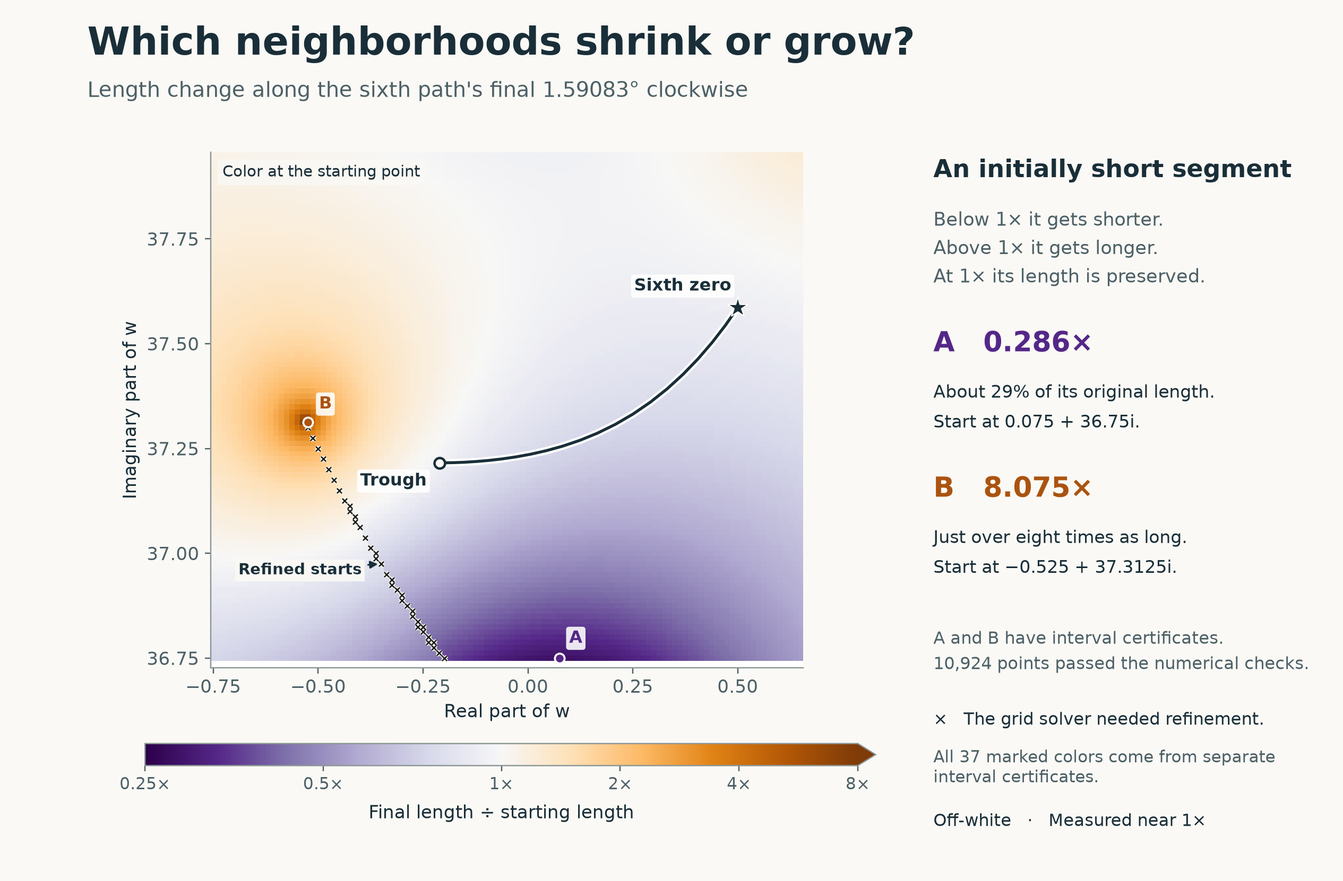
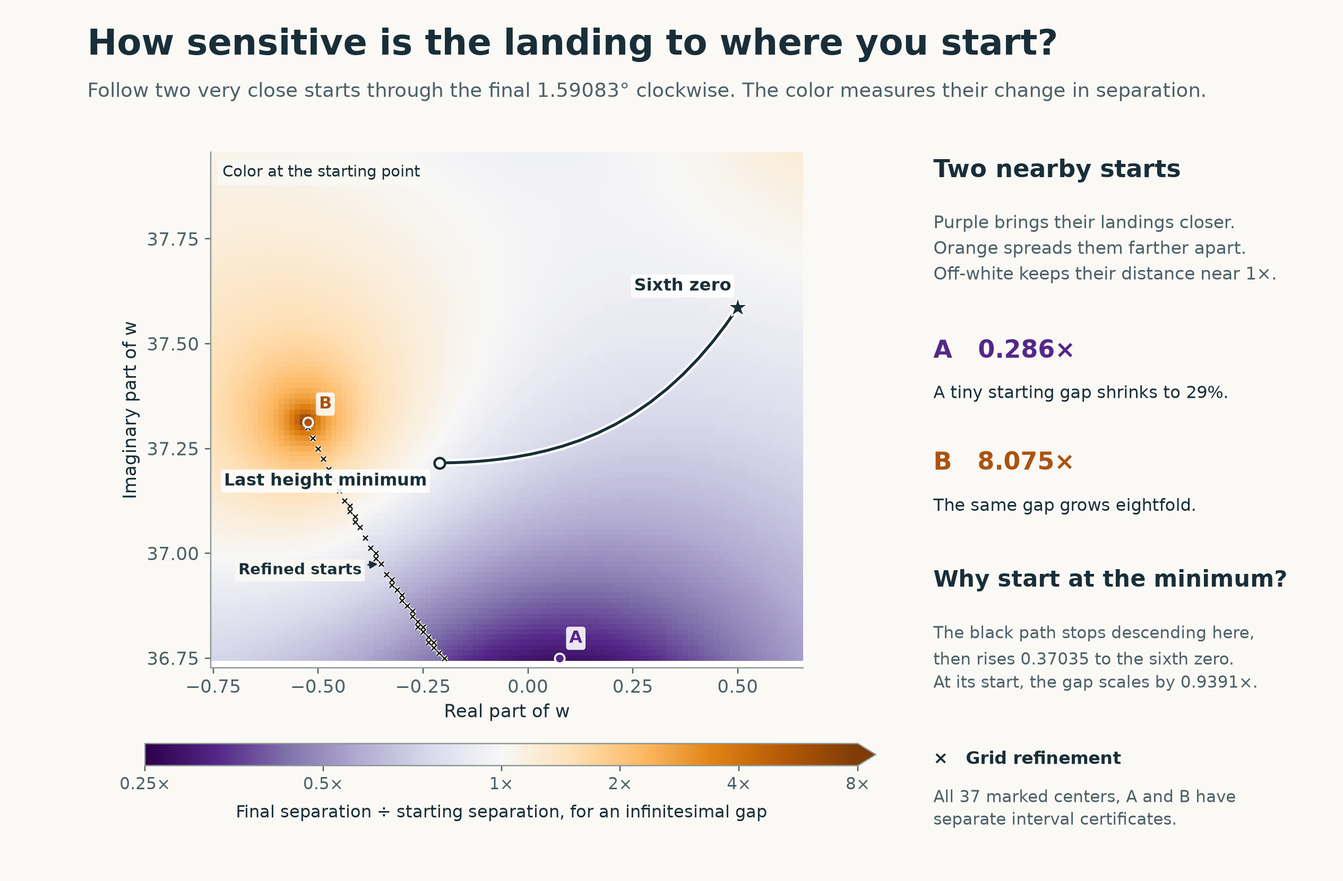
Explain landing sensitivity and name the measured centerline orbit

diff --git a/archive/2026-11-19-dottie-plane-atlas-v001/atlas/plane_wide.py b/archive/2026-11-19-dottie-plane-atlas-v001/atlas/plane_wide.py
@@ -31,17 +31,17 @@ def plot(out,close_data):
     ink="#192e38"; muted="#49616a"; blue="#19657d"; paper="#faf9f5"
     plt.rcParams.update({"font.family":"DejaVu Sans","font.size":11,"axes.labelcolor":ink,
                          "text.color":ink,"xtick.color":muted,"ytick.color":muted,"axes.edgecolor":"#81918f"})
-    fig=plt.figure(figsize=(10.5,9.15),facecolor=paper)
-    fig.text(.067,.946,"The sixth path in a wider complex plane",fontsize=24,fontweight="bold")
-    fig.text(.067,.903,"A new 38,801-point grid. The return-lift angle runs from 13.40917° to 15° clockwise.",
-             fontsize=12.2,color=muted)
-    ax=fig.add_axes([.081,.17,.505,.665])
+    fig=plt.figure(figsize=(12.8,9.4),facecolor=paper)
+    fig.text(.065,.938,"How sensitive is the landing to the starting point?",fontsize=23,fontweight="bold",color=ink)
+    fig.text(.065,.882,"Imagine nudging a starting point. Its color tells you how much that tiny nudge changes where you land.",
+             fontsize=12.3,color=muted)
+    ax=fig.add_axes([.063,.211,.497,.61])
     ax.set_aspect("equal",adjustable="box")
     cmap=plt.get_cmap("PuOr_r").copy();cmap.set_bad("#a5aaa8")
     im=ax.pcolormesh(x,y,np.ma.array(g["log2_length"],mask=~ok),shading="nearest",
                      cmap=cmap,norm=TwoSlopeNorm(vcenter=0,vmin=np.log2(minrat),vmax=np.log2(maxrat)),rasterized=True)
     ax.set_xlim(x[0]-.0125,x[-1]+.0125);ax.set_ylim(y[0]-.0125,y[-1]+.0125)
-    ax.set_xlabel("Starting real part of w");ax.set_ylabel("Starting imaginary part of w")
+    ax.set_xlabel("Starting real part");ax.set_ylabel("Starting height (imaginary part)")
     ax.xaxis.set_major_locator(MultipleLocator(1));ax.yaxis.set_major_locator(MultipleLocator(1))
     # The rings show the finer predecessor data even where that point is
     # between nodes of the new grid. The twelve shared unresolved nodes
@@ -56,22 +56,37 @@ def plot(out,close_data):
     ax.annotate("Trough",xy=(track[0].real,track[0].imag),xytext=(4,-7),
                 textcoords="offset points",ha="left",va="top",fontsize=9.5,fontweight="bold",
                 color=ink,bbox=dict(boxstyle="round,pad=.16",fc=paper,ec="none",alpha=.88),zorder=10)
-    S=.585
+    S=.555
     def txt(y,text,*,size=11,weight="normal",color=muted):
         fig.text(S,y,text,fontsize=size,fontweight=weight,color=color,va="top",linespacing=1.5)
-    txt(.82,"Reading the colors and marks",size=15,weight="bold",color=ink)
-    txt(.755,"Off-white means a measured ratio near 1×.\nAt −1 + 38.65i the ratio is 1.000010×.",size=10.8)
-    txt(.65,"×   Unresolved by the wide grid solver",size=11.5,weight="bold",color=ink)
-    txt(.605,f"{counts[1]} starts missed the required agreement\nbetween the two step sizes.",size=10.8)
-    txt(.50,"○   Individually verified starts",size=11.5,weight="bold",color=blue)
-    txt(.454,f"All {len(old)} blue-ringed starts were later solved\nwith interval arithmetic. Twelve fall exactly\non this wider grid and carry both marks.",size=10.8)
-    txt(.327,"How much do lengths change?",size=13,weight="bold",color=ink)
-    txt(.278,f"{counts[0]:,} accepted numerical readings span\n{minrat:.3f}× to {maxrat:.3f}×. Purple shrinks an initial\nlength. Orange stretches it.",size=10.8)
-    txt(.165,"The black curve follows the marked zero.\nThe star is its arrival at the sixth Riemann zero.",size=9.65)
-    cb=fig.colorbar(im,cax=fig.add_axes([.075,.086,.485,.022]),orientation="horizontal",
+    txt(.823,"Read one colored point",size=15.5,weight="bold",color=ink)
+    txt(.778,"Follow two very close starts through the same turn.\nCompare the gap between them at the beginning and end.",size=10.6)
+    key=fig.add_axes([S,.548,.394,.145])
+    key.set_xlim(0,1);key.set_ylim(0,1)
+    key.axis("off")
+    key.text(.385,.94,"Starting gap",color=muted,fontsize=9,ha="center")
+    key.text(.76,.94,"Landing gap",color=muted,fontsize=9,ha="center")
+    for ratio,level,yrow in ((.5,"Purple",.69),(1,"Off-white",.40),(2,"Orange",.11)):
+        # The example dots use one ruler in both columns. Each represents
+        # a pair of infinitesimally close trajectories, magnified for display.
+        color=im.cmap(im.norm(np.log2(ratio)))
+        key.scatter(.022,yrow,marker="s",c=[color],s=96,edgecolor="#74838a",linewidth=.65)
+        key.text(.064,yrow,f"{level}   {ratio:g}×",va="center",color=ink,fontsize=9.5)
+        for origin,dist in ((.325,.12),(.685,.12*ratio)):
+            key.plot([origin,origin+dist],[yrow,yrow],lw=1.85,color=ink,solid_capstyle="round")
+            key.scatter([origin,origin+dist],[yrow,yrow],s=25,color=ink,zorder=3)
+    txt(.493,"Why start at the trough?",size=15.5,weight="bold",color=ink)
+    txt(.445,"The open circle is the last low point of the black path.\nIts height stops falling at 37.21583 while the point is still\nmoving sideways. From here the path rises to the star,\nthe sixth Riemann zero at height 37.58618.",size=10.6)
+    txt(.313,"At that starting point the factor is 0.939×.",size=11,weight="bold",color=ink)
+    txt(.273,"The marked point travels 0.801 in straight-line distance.\nA tiny gap between neighboring starts shrinks by 6.1%.\nColor measures that gap, regardless of the distance traveled.",size=10.4)
+    cb=fig.colorbar(im,cax=fig.add_axes([.09,.126,.433,.016]),orientation="horizontal",
                     ticks=[-4,-3,-2,-1,0,1,2,3])
     cb.ax.set_xticklabels(["1/16×","1/8×","1/4×","1/2×","1×","2×","4×","8×"])
-    cb.ax.tick_params(labelsize=9);cb.set_label("Final local length ÷ starting length")
+    cb.ax.tick_params(labelsize=8.5);cb.set_label("Landing gap ÷ starting gap, for a tiny nudge",size=10)
+    txt(.155,"×  Wide-grid calculation needed refinement (152 starts).",size=9.2,color=ink)
+    txt(.126,"○  Blue ring: starting point checked separately (37 starts).",size=9.2,color=blue)
+    fig.text(.065,.039,"The angle changes from 13.40917° to 15°. Each start keeps its own value of the symmetric Hurwitz sum. The black path keeps value zero.",
+             fontsize=9,color=muted)
     fig.savefig(out/"plane_wide.png",dpi=220,facecolor=paper)
     plt.close(fig)
 

diff --git a/archive/2026-11-19-dottie-plane-atlas-v001/atlas/trace_order.py b/archive/2026-11-19-dottie-plane-atlas-v001/atlas/trace_order.py
@@ -1,0 +1,101 @@
+"""Draw the two reciprocal-root sums for the period-640 centerline orbit."""
+import argparse
+import hashlib
+import json
+from math import isclose, pi, sin, sqrt
+from pathlib import Path
+
+import matplotlib
+matplotlib.use("Agg")
+import matplotlib.pyplot as plt
+import numpy as np
+
+
+SOURCE=Path("archive/2026-11-19-oriented-return-v001/data/quarter_probe.json")
[1 lines of base64/hex data omitted]
+HERE=Path(__file__).resolve().parent
+BLUE,ORANGE,INK="#005785","#ad5000","#1d2930"
+
+
+def number(row,key):
+    """The original directed balls stay in the source. Plot their printed centers."""
+    return float(row[key].lstrip("[").split()[0])
+
+
+def draw(source,output):
+    blob=source.read_bytes()
+    if hashlib.sha256(blob).hexdigest()!=DIGEST:
+        raise ValueError("The signed trace record differs from the archived quarter_probe.json.")
+    record=json.loads(blob)
+    before,after=(record[name] for name in ("original","clockwise"))
+    b,a=(number(row,"angle_deg") for row in (before,after))
+    assert record["ordered_period"]==640 and record["scalar_period"]==320
+    assert a < -90 < b and isclose(a,b-30,abs_tol=1e-12)
+    assert number(after,"y")!=number(before,"y")
+    assert record["original_contained_in_restored_bounds"]
+    left,right=a-2.2,b+4.1
+    theta=np.linspace(left,right,1200)
+    fig,ax=plt.subplots(figsize=(10,6))
+    fig.subplots_adjust(left=.105,right=.958,top=.70,bottom=.19)
+    fig.text(.105,.94,"The two spectral readings exchange order at −90°",fontsize=21,
+             color=INK,fontweight="bold")
+    fig.text(.105,.882,"The angle measures how a small displacement turns after one full lap of the centerline orbit.",
+             fontsize=11.5,color="#4b606a")
+    for key,sign,color,style,marker,lab in (
+            ("trace_plus",1,BLUE,"-","o",r"$M_+$ at $\theta+30^\circ$"),
+            ("trace_minus",-1,ORANGE,(0,(5,2.6)),"s",r"$M_-$ at $\theta-30^\circ$")):
+        ax.plot(theta,2/(1-np.sin(np.deg2rad(theta+sign*30))),label=lab,
+                c=color,ls=style,lw=2)
+        for row,t in ((before,b),(after,a)):
+            y=number(row,key)
+            assert isclose(y,2/(1-sin((t+sign*30)*pi/180)),rel_tol=1e-13)
+            ax.scatter(t,y,s=55,marker=marker,facecolor=color,edgecolor="white",zorder=5)
+            offset=(6,10 if sign==1 else -11) if t==b else (8,8 if sign==1 else -8)
+            ax.annotate(f"{y:.4f}",xy=(t,y),xytext=offset,textcoords="offset points",
+                        color=color,fontsize=10.5,fontweight="bold",va="center",
+                        bbox=dict(facecolor="white",edgecolor="none",alpha=.9,pad=.65))
+    for x,label,alignment in ((a,"Same period-640 branch after the turn","left"),
+                              (b,"Centerline period-640 orbit before the turn","right")):
+        ax.axvline(x,color="#a4afb4",lw=.95,ls=(0,(2,3)),zorder=0)
+        ax.text(x,1.025,label,transform=ax.get_xaxis_transform(),ha=alignment,
+                va="bottom",fontweight="bold",color=INK,fontsize=10)
+    arrow_y=1.303
+    ax.annotate("",xy=(a+.9,arrow_y),xytext=(b-.5,arrow_y),
+                arrowprops=dict(arrowstyle="->",color=INK,lw=1))
+    ax.text((a+b)/2,arrow_y,"30° clockwise",ha="center",va="center",fontsize=10,
+            bbox=dict(facecolor="white",edgecolor="none",pad=2))
+    pivot=8-4*sqrt(3)
+    ax.scatter(-90,pivot,marker="D",facecolor="white",edgecolor=INK,lw=1.2,s=41,zorder=6)
+    ax.annotate(r"$M_+=M_-=8-4\sqrt{3}$",xy=(-90,pivot),xytext=(-97,1.179),
+                ha="center",fontsize=11,arrowprops=dict(arrowstyle="-",color=INK,lw=.85,shrinkB=5))
+    ax.set(xlim=(left,right),ylim=(.982,1.32),ylabel="First reciprocal-root sum",
+           xlabel=r"Return angle $\theta$ (degrees)")
+    ax.set_xticks([a,-110,-100,-90,b],labels=[f"−{abs(a):.2f}","−110","−100","−90",f"−{abs(b):.2f}"])
+    ax.set_yticks([1,1.05,1.10,1.15,1.20,1.25,1.30])
+    ax.grid(axis="y",color="#e1e6e8",lw=.75)
+    ax.spines[["right","top"]].set_visible(False)
+    ax.tick_params(colors=INK,labelsize=10,length=3)
+    ax.legend(loc="upper left",bbox_to_anchor=(.101,.855),bbox_transform=fig.transFigure,
+              ncol=2,frameon=False,borderaxespad=0,handlelength=2.5,columnspacing=2.5)
+    fig.text(.105,.052,
+             f"Centerline parameter y changes from {number(before,'y'):.15f} to {number(after,'y'):.15f}.",
+             color="#4b606a",fontsize=10.2)
+    output.parent.mkdir(parents=True,exist_ok=True)
+    fig.savefig(output,dpi=240,facecolor="white",
+                metadata={"Title":"Centerline period-640 orbit before and after a 30 degree clockwise turn"})
+    plt.close(fig)
+
+
+if __name__=="__main__":
+    if not __debug__: raise RuntimeError("Enable assertions")
+    cli=argparse.ArgumentParser(description=__doc__)
+    cli.add_argument("--repo",type=Path,help="Path to The Super Zeta Function checkout.")
+    cli.add_argument("--data",type=Path,help="The archived quarter_probe.json.")
+    cli.add_argument("--output",type=Path,default=HERE/"trace_order.png")
+    args=cli.parse_args()
+    source=args.data
+    if source is None:
+        repo=args.repo or next((p for p in HERE.parents if (p/SOURCE).is_file()),None)
+        if repo is None: cli.error("Supply --repo or --data.")
+        source=repo/SOURCE
+    draw(source,args.output)

diff --git a/archive/2026-11-19-dottie-plane-atlas-v001/atlas/plane_map.py b/archive/2026-11-19-dottie-plane-atlas-v001/atlas/plane_map.py
@@ -270,13 +270,13 @@ def plot(out,staircase=None):
         ax.plot(track[0].real,track[0].imag,"o",ms=6.5,mfc=paper,mec=ink,mew=1.5,zorder=8)
         ax.plot(track[-1].real,track[-1].imag,"*",ms=13,mfc=ink,mec="white",mew=.7,zorder=8)
         if labels:
-            add_label(ax,track[0],"Trough",(-8,-6))
+            add_label(ax,track[0],"Last height minimum",(-8,-6))
             add_label(ax,track[-1],"Sixth zero",(-4,8))
 
     # Original complete cell extents, including all four outer half-cells.
     fig=plt.figure(figsize=(11.5,7.55),**fig_options)
-    fig.text(.065,.938,"Which neighborhoods shrink or grow?",fontsize=24,fontweight="bold")
-    fig.text(.065,.89,"Length change along the sixth path's final 1.59083° clockwise",fontsize=13,color=secondary)
+    fig.text(.065,.938,"How sensitive is the landing to where you start?",fontsize=22,fontweight="bold")
+    fig.text(.065,.89,"Follow two very close starts through the final 1.59083° clockwise. The color measures their change in separation.",fontsize=12,color=secondary)
     ax=fig.add_axes([.085,.242,.585,.585])
     axes(ax)
     ax.set_ylabel("Imaginary part of w")
@@ -301,23 +301,23 @@ def plot(out,staircase=None):
                 bbox=dict(facecolor=paper,edgecolor="none",alpha=.92,pad=2),
                 fontsize=9.5,fontweight="bold",zorder=12)
     sidebar=.695
-    fig.text(sidebar,.82,"An initially short segment",fontsize=15,fontweight="bold",va="top")
-    fig.text(sidebar,.766,"Below 1× it gets shorter.\nAbove 1× it gets longer.\nAt 1× its length is preserved.",
-             fontsize=11.3,linespacing=1.55,color=secondary,va="top")
-    fig.text(sidebar,.625,"A   0.286×",fontsize=17,fontweight="bold",color=A,va="top")
-    fig.text(sidebar,.570,"About 29% of its original length.\nStart at 0.075 + 36.75i.",fontsize=10.8,linespacing=1.6,va="top")
-    fig.text(sidebar,.460,"B   8.075×",fontsize=17,fontweight="bold",color=B,va="top")
-    fig.text(sidebar,.405,"Just over eight times as long.\nStart at −0.525 + 37.3125i.",fontsize=10.8,linespacing=1.6,va="top")
-    fig.text(sidebar,.292,"A and B have interval certificates.\n10,924 points passed the numerical checks.",
-             fontsize=10.5,linespacing=1.6,color=secondary,va="top")
-    fig.text(sidebar,.192,"×   The grid solver needed refinement.",fontsize=10.4,color=ink,va="top")
-    fig.text(sidebar,.151,f"All {unresolved} marked colors come from separate\ninterval certificates.",fontsize=10.1,color=secondary,va="top")
-    fig.text(sidebar,.077,"Off-white   ·   Measured near 1×",fontsize=10.4,color=ink,va="top")
+    fig.text(sidebar,.82,"Two nearby starts",fontsize=15,fontweight="bold",va="top")
+    fig.text(sidebar,.761,"Purple brings their landings closer.\nOrange spreads them farther apart.\nOff-white keeps their distance near 1×.",
+             fontsize=10.7,linespacing=1.48,color=secondary,va="top")
+    fig.text(sidebar,.615,"A   0.286×",fontsize=15,fontweight="bold",color=A,va="top")
+    fig.text(sidebar,.563,"A tiny starting gap shrinks to 29%.",fontsize=10.6,va="top")
+    fig.text(sidebar,.488,"B   8.075×",fontsize=15,fontweight="bold",color=B,va="top")
+    fig.text(sidebar,.435,"The same gap grows eightfold.",fontsize=10.6,va="top")
+    fig.text(sidebar,.354,"Why start at the minimum?",fontsize=14,fontweight="bold",va="top")
+    fig.text(sidebar,.295,"The black path stops descending here,\nthen rises 0.37035 to the sixth zero.\nAt its start, the gap scales by 0.9391×.",
+             fontsize=10.3,linespacing=1.48,color=secondary,va="top")
+    fig.text(sidebar,.148,"×   Grid refinement",fontsize=10.8,fontweight="bold",va="top")
+    fig.text(sidebar,.109,f"All {unresolved} marked centers, A and B have\nseparate interval certificates.",fontsize=10.25,linespacing=1.4,color=secondary,va="top")
     cbax=fig.add_axes([.108,.131,.544,.025])
     cb=fig.colorbar(im,cax=cbax,orientation="horizontal",ticks=[-2,-1,0,1,2,3],extend="max",extendfrac=.025)
     cb.ax.set_xticklabels(["0.25×","0.5×","1×","2×","4×","8×"])
     cb.ax.tick_params(labelsize=10)
-    cb.set_label("Final length ÷ starting length",labelpad=7,fontsize=11)
+    cb.set_label("Final separation ÷ starting separation, for an infinitesimal gap",labelpad=7,fontsize=10.5)
     fig.savefig(out/"plane_strain.png",dpi=220)
     plt.close(fig)
 

diff --git a/tools/replay_plane_atlas.py b/tools/replay_plane_atlas.py
@@ -1,4 +1,4 @@
-"""Recompute the two maps and their certified witnesses in a fresh directory."""
+"""Recompute the maps and interval proofs for the marked starting points and inverse branches."""
 import argparse
 from fractions import Fraction
 from hashlib import sha256
@@ -71,9 +71,12 @@ def compare_map(out, stem, expected_count):
 
 def replay(out):
     check_reference()
+    record = ARCHIVE / "2026-11-19-oriented-return-v001" / "data" / "quarter_probe.json"
[1 lines of base64/hex data omitted]
+    run(ATLAS / "trace_order.py", out, "--data", record, "--output", out / "trace_order.png")
     run(ATLAS / "plane_map.py", out, "--output", out)
     run(ATLAS / "plane_wide.py", out, "--output", out)
-    for name in ("plane_strain.png", "plane_grid.png", "plane_wide.png"):
+    for name in ("plane_strain.png", "plane_grid.png", "plane_wide.png", "trace_order.png"):
         with Image.open(out / name) as regenerated, Image.open(ATLAS / name) as saved:
             assert regenerated.size == saved.size and min(regenerated.size) >= 1440
             regenerated.verify()
@@ -100,6 +103,12 @@ def replay(out):
     assert {(p["row"], p["column"]) for p in incidence["pixel_checks"]} == rejected
     assert all(p["arc"] == 1 and p["source_pixel_contains_level_preimage"] for p in incidence["pixel_checks"])
     # Fix the archived rational shifts for the sheet and collision comparison.
+    archived_cases = read(ATLAS / "gray_collision.json")["illustrated_pixels"]
+    archived_inputs = read(ATLAS / "gray_locus.json")["pixel_checks"]
+    for inp, case in zip(archived_inputs, archived_cases, strict=True):
+        assert (inp["row"], inp["column"]) == (case["row"], case["col"])
+        h = (Fraction(inp["shift"]) - Fraction(1, 6)) * 180
+        assert arb(case["collision_h"]).contains(arb(h.numerator) / h.denominator)
     run(ATLAS / "gray_collision.py", out, "--locus", ATLAS / "gray_locus.json",
         "--out", out / "gray_collision.json")
     collision = read(out / "gray_collision.json")

diff --git a/README.md b/README.md
@@ -12,7 +12,7 @@ I study the ordered return of the reciprocal exponentials $P'=e^{LQ}$ and $Q'=e^
 - I recover $\zeta(2s)$ by comparing the quartet determinant with the cosine determinant.
 - At a Dottie-selected height and its first two integer multiples above it, I strengthen the 7/8ths conclusion to the critical line within three explicit intervals.
 - I recover the Stirling correction for each positive integer from the balanced-sign factor in my quartet normalization.
-- I certify finite cycles in the Dottie spire and recover the period-640 witness from two labeled traces on a calibrated branch.
+- I certify finite cycles in the Dottie spire. For one period-640 cycle, two labeled spectral traces recover its centerline parameter, and iteration from the cap recovers the orbit.
 - I approximate $\pi$ from a genus-one quartic that fails the Hasse principle.
 
 ## Introduction
@@ -90,7 +90,7 @@ The pair $x^{x-a},x^{x+a}$ is a way to start thinking about two exponents at onc
 F_L(P,Q)=\bigl(e^{LQ},e^{-LP}\bigr).
 ```
 
-With center $m=(Q-P)/2$ and half-difference $a=(Q+P)/2$, the updated pair is $(x^{m+a},x^{m-a})$. I keep the branch witnesses $U=LQ$ and $V=-LP$, the actual exponents fed to the two maps. For $L\ne0$ they give back $Q=U/L$ and $P=-V/L$. My papers use $M$ for the second phase $Q$. [*Reciprocal Tetration*, §5, “Branch-sensitive complex fixed data”](archive/2026-11-18-lean-foundations-v001/papers/foundations/main.tex#L359-L402) · [Ordered return in Lean](lean/SuperZeta/Reciprocal.lean)
+With center $m=(Q-P)/2$ and half-difference $a=(Q+P)/2$, the updated pair is $(x^{m+a},x^{m-a})$. I keep the exponents in their original order, $U=LQ$ for the positive stage and $V=-LP$ for the negative stage. For $L\ne0$ they give back $Q=U/L$ and $P=-V/L$. My papers use $M$ for the second phase $Q$. [*Reciprocal Tetration*, §5, “Branch-sensitive complex fixed data”](archive/2026-11-18-lean-foundations-v001/papers/foundations/main.tex#L359-L402) · [Ordered return in Lean](lean/SuperZeta/Reciprocal.lean)
 
 ### The complex two-base family
 
@@ -118,7 +118,7 @@ The Layer 4 survey searches paired periods up to 256. Gray marks unresolved pixe
 
 Baker and Rippon give the centerline return and convergence boundary. My spire analysis starts from that boundary and follows the cap into nearby cycles. The exact Dottie normalization gives separate return equations for the two parities, and the trapping certificates apply those periods to the original map. Under the cap and branch matching hypotheses in §9, the parameters of period $p$ on a rail approach the tip on the scale $p^{-2}$. I can follow the same marked period-640 cycle and its 25/295 itinerary across a finite interval. Matching its phase coordinates and logarithmic branches all the way to a specific limiting horn remains open. Section 10 estimates finite multiplier minima through paired period $4800$. [*Dottie Parabolic Fold*, §§9–10, rail law and finite data](archive/2026-11-18-lean-foundations-v001/papers/dottie-spire/main.tex#L605-L715) · [The finite orbit and the remaining horn matching](archive/2026-11-18-lean-foundations-v001/papers/dottie-spire/main.tex#L739-L750) · [Godin and Rousseau, antiholomorphic parabolic germs](https://doi.org/10.1017/etds.2021.98)
 
-For the zeta experiment I checked two reflected points $L_\pm=\pm\eta+iy$ and their midpoint $L_0=iy$, using $\eta=4.749479070945369\times10^{-8}$ and $y=0.509892982511772$. The original cap is attracted to a cycle of primitive period 320 under the two-step return at each point. These finite orbits give me the marked laps and the parameter values used in the height rule below. [Preprint §8, off-axis witnesses](archive/2026-11-18-lean-foundations-v001/papers/dottie-spire/main.tex#L580-L604) · [Later three-point certificate, 384-bit arithmetic](archive/2026-11-18-lean-foundations-v001/checks/dottie_slice.py) · [Johansson, Arb ball arithmetic](https://arxiv.org/abs/1611.02831)
+For the zeta experiment I checked the two reflected flank parameters $L_\pm=\pm\eta+iy$ and their midpoint $L_0=iy$, using $\eta=4.749479070945369\times10^{-8}$ and $y=0.509892982511772$. The original cap is attracted to a cycle of primitive period 320 under the two-step return at all three parameters. These finite orbits give me the marked laps and the parameter values used in the height rule below. [Preprint §8, period-640 dynamics off the centerline](archive/2026-11-18-lean-foundations-v001/papers/dottie-spire/main.tex#L580-L604) · [Later three-point certificate, 384-bit arithmetic](archive/2026-11-18-lean-foundations-v001/checks/dottie_slice.py) · [Johansson, Arb ball arithmetic](https://arxiv.org/abs/1611.02831)
 
 <a name="the-spectral-zeta-and-the-critical-line"></a>
 
@@ -130,7 +130,7 @@ For the zeta experiment I checked two reflected points $L_\pm=\pm\eta+iy$ and th
 
 ### 3.1 Compose the two marked stages
 
-At a fixed pair, $P=e^U$ and $Q=e^V$, where $U=LQ$ and $V=-LP$ are the branch witnesses from my construction. A small change at $P$ passes first through $P\mapsto Q$ with derivative $-LQ$, then through $Q\mapsto P$ with derivative $LP$. By the chain rule the derivative of the whole return, called its **multiplier**, is
+At a fixed pair, the ordered exponents $U=LQ$ and $V=-LP$ give $P=e^U$ and $Q=e^V$. A small change at $P$ passes first through $P\mapsto Q$ with derivative $-LQ$, then through $Q\mapsto P$ with derivative $LP$. By the chain rule the derivative of the whole return, called its **multiplier**, is
 
 ```math
 g_L'(P)=(-LQ)(LP)=UV.
@@ -148,7 +148,7 @@ From $U=Le^V$ and $V=-Le^U$ I eliminate $L$ to obtain $Ue^U+Ve^V=0$. On the mult
 U=\sigma\sin u+iu,\qquad V=\sigma\sin u-iu,\qquad L=\sigma i e^{-\sigma\sin u}.
 ```
 
-This recovery is why I can use cosine roots as a spectrum of the original return. Each root gives me both branch witnesses, the values $P=e^U$ and $Q=e^V$, and the complex $L$ that produced them. [Cosine spectrum, §1, eqs. (1)–(5)](archive/2026-11-16-super-zeta-v001/sources/foundation/cosine-spectrum.md#1-exact-recovery-of-every-ordered-phase-and-parameter) · [Phase recovery in Lean](lean/SuperZeta/Quartet.lean)
+This recovery is why I can use cosine roots as a spectrum of the original return. Each root gives me the ordered logarithms $U,V$, the phases $P=e^U$ and $Q=e^V$, and the parameter $L$ that produced them. [Cosine spectrum, §1, eqs. (1)–(5)](archive/2026-11-16-super-zeta-v001/sources/foundation/cosine-spectrum.md#1-exact-recovery-of-every-ordered-phase-and-parameter) · [Phase recovery in Lean](lean/SuperZeta/Quartet.lean)
 
 <a name="3-square-the-roots-and-sum-their-inverse-powers"></a>
 
@@ -226,7 +226,7 @@ With $w=2s$, the prefactor is nonzero in $0<\Re w<1$, so I can recover $\zeta(w)
 
 ### 3.6 Inverting two spectral traces on the period-640 orbit
 
-Here I use the spectrum to read a rotation of the original attracting orbit. Put $L=iy$ and let $p_y$ be the point selected by iterating the scalar lap $G_y=g_{iy}^{320}$ from the cap $1$. The angle $\theta(y)=\arg G_y'(p_y)$ is the turn of a small displacement after one lap of 640 alternating exponential stages. At the centerline witness $y_0=0.509892982511772$ that turn is $-86.2334491153^\circ$. [Period convention and finite witnesses](archive/2026-11-18-lean-foundations-v001/papers/dottie-spire/main.tex#L554-L604) · [Derivative of the full lap](lean/SuperZeta/Oriented/OrderedStages.lean)
+Here I use the spectrum to read a rotation of the original attracting orbit. Put $L=iy$ and let $p_y$ be the point selected by iterating the scalar lap $G_y=g_{iy}^{320}$ from the cap $1$. The angle $\theta(y)=\arg G_y'(p_y)$ is the turn of a small displacement after one lap of 640 alternating exponential stages. At the centerline parameter $L=i y_0$, with $y_0=0.509892982511772$, I measure a turn of $-86.2334491153^\circ$. [Period convention and the cap-selected cycles](archive/2026-11-18-lean-foundations-v001/papers/dottie-spire/main.tex#L554-L604) · [Derivative of the full lap](lean/SuperZeta/Oriented/OrderedStages.lean)
 
 **Proposition (two-trace inverse).** I mark the two exponential stages by opposite phases. For a probe angle $a$, let $M(a)$ be the sum of the reciprocal zeros of its normalized positive-sign squared determinant. For $\cos a\ne0$, the sum converges absolutely and equals $2/(1-\sin a)$. The unshifted squared spectra agree at angles reflected across $-90^\circ$, even with both stage signs retained. I measure the same positive-sign spectrum at two labeled offsets and write
 
@@ -244,7 +244,7 @@ Where both probes are regular, $S_\pm=\sin(\theta\pm\pi/6)$. Subtracting and add
 
 On the sector $-120^\circ<\theta<-60^\circ$, $M_+>M_-$ identifies the side above $-90^\circ$ and $M_+<M_-$ the side below. At the pivot the two readings equal $8-4\sqrt3$. The pair identifies the current side. Reading it before and after a specified turn records which side the orbit came from. [Proof from the complete zero set](lean/SuperZeta/Oriented/SpectralInverse.lean) · [Reflection of the squared determinant](lean/SuperZeta/Oriented/PhaseSymmetry.lean)
 
-![The two trace curves cross at minus 90 degrees. On the original orbit the positive-offset reading is larger. After the clockwise turn the negative-offset reading is larger.](archive/2026-11-19-oriented-return-v001/figures/oriented-traces.png)
+![The two reciprocal-root sums at the centerline period-640 orbit before the turn and on the same branch 30° clockwise.](archive/2026-11-19-dottie-plane-atlas-v001/atlas/trace_order.png)
 
 **Period-640 round trip.** I turned the measured phase clockwise by $30^\circ$, found the corresponding parameter on the same branch, and evaluated both determinants afresh there. The rounded entries below come from directed enclosures. [Interval record](archive/2026-11-19-oriented-return-v001/data/quarter_probe.json)
 
@@ -255,9 +255,9 @@ On the sector $-120^\circ<\theta<-60^\circ$, $M_+>M_-$ identifies the side above
 
 Decoding the second pair and adding back $30^\circ$ gives a parameter interval containing $y_0$ of width below $10^{-29}$. The cap selects the starting point at this parameter. Iterating the ordered map then recovers the same cycle with its actual exponents $U=LQ$ and $V=-LP$ at every step. Each of the 1,280 returned exponent enclosures overlaps its original partner.
 
-Lean proves the determinant product, the inverse formula and the return theorem on a continuous, strictly increasing angle branch with the target in range. The 448-bit interval computation verifies cap capture, primitive period and positive angle derivative on the stated witness interval. Lean separately checks the printed rational return bounds. [Full proof, arithmetic comparison with Liu, and replay](archive/2026-11-19-oriented-return-v001/README.md)
+Lean proves the determinant product, the inverse formula and the return theorem on a continuous, strictly increasing angle branch with the target in range. On the centerline interval $0.50989298230\le y\le0.50989298314$, my 448-bit calculation verifies that the cap is attracted to a cycle of primitive ordered period 640 and that the return angle increases with $y$. Lean separately checks the printed rational return bounds. [Full proof, arithmetic comparison with Liu, and replay](archive/2026-11-19-oriented-return-v001/README.md)
 
-**Arithmetic consequence.** At the *absolute* native angles $-30^\circ$ and $+30^\circ$, the reference spectra give the same function $\pi^{-w}(3^w-1)\zeta(w)$ with $w=2s$. The first dynamical correction is zero at $-30^\circ$ and $8/3$ at $+30^\circ$. Liu’s joint moment estimates give the external zero-free bound for this common reference. The measurements around the period-640 witness use relative offsets from its own angle. [Liu, Theorem 1.1](https://hexagonmath.org/pdf/2611.00421v1#page=2) · [Derivation and phase convention](archive/2026-11-19-oriented-return-v001/README.md#the-arithmetic-reference-at-the-two-absolute-angles)
+**Arithmetic consequence.** At the *absolute* native angles $-30^\circ$ and $+30^\circ$, the reference spectra give the same function $\pi^{-w}(3^w-1)\zeta(w)$ with $w=2s$. The first dynamical correction is zero at $-30^\circ$ and $8/3$ at $+30^\circ$. Liu’s joint moment estimates give the external zero-free bound for this common reference. In my period-640 round trip, I measure the $30^\circ$ turn from the original orbit’s return angle of $-86.2334491153^\circ$. [Liu, Theorem 1.1](https://hexagonmath.org/pdf/2611.00421v1#page=2) · [Derivation and phase convention](archive/2026-11-19-oriented-return-v001/README.md#the-arithmetic-reference-at-the-two-absolute-angles)
 
 <a name="zero-transport"></a>
 
@@ -445,7 +445,7 @@ The numerator comes from the exact product of all the radial factors $R_n/(2\pi 
 
 ## Conclusions
 
-- **Two measurements determine the orientation of the cap-selected return.** The labeled root sums recover both coordinates of the normalized return multiplier. On the certified branch this determines the centerline parameter and the ordered period-640 orbit. [The inverse and the witness](#oriented-period-640-return)
+- **Two measurements determine the orientation of the cap-selected return.** The labeled root sums recover both coordinates of the normalized return multiplier. On the certified branch this determines the centerline parameter and the ordered period-640 orbit. [Recovering the centerline parameter and its cycle](#oriented-period-640-return)
 - **I kept the order of the exponential stages in a ring.** A word records which sign I use at each step. Joining words is multiplication, and finite integer sums of words form the free associative ring on the two signs. The balance, given by the difference between the two sign counts, adds when I join words. The balanced words therefore span its degree-zero subring. The two orders +− and −+ already give different compositions at Dottie. In a scalar count, two of the four two-stage histories balance. With two independent streams, the fraction is $1/4$. At level $n$ that fraction is the factor $B_n^2$ in my normalization. [Periodic sign words in my preprint](archive/2026-11-18-lean-foundations-v001/papers/foundations/main.tex#L404-L445) · [Word ring acting by composition, eqs. (1)–(4)](archive/2026-11-16-super-zeta-v001/research/ordered-signed-histories.md#1-the-operators-retain-every-arrangement)
 - **I made the factorial error an evaluable part of the formula.** The exact integral explains why the quarter survives and bounds what is left at each truncation. I also found the exact adjacent-level ratio $D_{n+1}/D_n=1+1/(4n(n+1))$, which lets me carry the factorial factor into the phase comparison at the Dottie height. Summing the correction across levels contributes a quarter at zero in the zeta function of those levels. Multiplying across levels gives the factorial factor in the Barnes–Dottie constant. [Adjacent-level phase calculation and certificate](archive/2026-11-18-stirling-correction-v001/README.md#effect-on-phase-at-the-dottie-height)
 - **I verified the exact factorial identities in Lean.** The proofs check the combined Stirling error in the quartet formula and the truncation bound at every order. A separate theorem recovers the error on a single factorial from the same integral and proves the resulting equality for every positive integer $n$. [Combined and single-factorial identities](lean/SuperZeta/StirlingCorrection.lean) · [All-order bounds](lean/SuperZeta/StirlingExpansion.lean)

diff --git a/archive/2026-11-19-dottie-plane-atlas-v001/atlas/THESIS.md b/archive/2026-11-19-dottie-plane-atlas-v001/atlas/THESIS.md
@@ -33,7 +33,9 @@ Substitution gives $dw/dL=-b'(L)H_b/H_w$. This extends the measured turn to comp
 
 ![Where the sampled grid goes. Positions in the initial rectangle and all resolved final positions share the same complex axes.](plane_grid.png)
 
-![The wide heatmap labels the trough on the path to the sixth zero. Color measures local length change. Crosses mark results flagged by the wide grid calculation, and blue rings mark individually verified starting points.](plane_wide.png)
+![How sensitive is the landing to the starting point? A pair of dots shows the same tiny starting gap halving in purple, staying the same in off-white, or doubling in orange. The trough is the open circle on the black path to the sixth zero.](plane_wide.png)
+
+I read the color at the **start**. Imagine missing that start by one millionth of a unit in the complex plane. A local factor of $2$ means the landing shifts by about two millionths. This matters if I want to know how precisely a starting position determines its endpoint. The black curve follows one particular start over the final $1.59083^\circ$ of the turn. At the open circle the height has just stopped falling, even though the point is moving sideways. That last height minimum gives me a repeatable place to begin the comparison. From there the path rises by $0.37035$ to the sixth zero, while a tiny starting displacement reaches the endpoint at about $93.91\%$ of its original size.
 
 From the last trough to the sixth landing, the length factor is $0.93909767282928$. At $0.075+36.75i$ it is $0.286128734$. At $-0.525+37.3125i$ it is $8.075195$. The three values have interval enclosures. Thus neighboring points can approach one another or spread apart on the same angular interval. At a regular finite endpoint the transport derivative is nonzero. In particular those finite arrows keep their complex level $c$, including the nonzero levels marked A and B. [Two nonzero-level interval proofs](plane_anchors.json) · [Zero-path length and area](phase_lift.json)
 
@@ -43,7 +45,7 @@ At an intermediate shift $b$, a simple critical point has $H_w(w_c,b)=0$ and $H_
 
 ## How the signs survive the move into a spectral coordinate
 
-At the 45° end of the measured period-640 flank, write $E_j(z)=\exp(a_jz)$ for the ordered scalar stages, beginning with $a_0=-L$ and then $a_1=L$, alternating through all 640. Set $z_{j+1}=E_j(z_j)$ and $c_j=a_jz_{j+1}$. The negative stage has exponent $-LP$ and the positive stage has exponent $LQ$, with $Q$ the intermediate scalar phase. The derivative of the full return is $\mu=\prod_j c_j$. Keeping the exponent *before* applying the exponential gives the following lift. I use the principal logarithms of the two fixed coefficients $+L,-L$.
+At the 45° end of the right-flank segment defined above, I use the cap-selected orbit of ordered period 640. Write $E_j(z)=\exp(a_jz)$ for the ordered scalar stages, beginning with $a_0=-L$ and then $a_1=L$, alternating through all 640. Set $z_{j+1}=E_j(z_j)$ and $c_j=a_jz_{j+1}$. The negative stage has exponent $-LP$ and the positive stage has exponent $LQ$, with $Q$ the intermediate scalar phase. The derivative of the full return is $\mu=\prod_j c_j$. Keeping the exponent *before* applying the exponential gives the following lift. I use the principal logarithms of the two fixed coefficients $+L,-L$.
 
 $$
 \ell_*=\sum_{j=0}^{639}\big(\log a_j+a_jz_j\big),\qquad

diff --git a/lean/README.md b/lean/README.md
@@ -69,7 +69,7 @@ The local strengthening of the seven-eighths theorem uses interval arithmetic fo
 | [Factorial correction](SuperZeta/Barnes.lean) | For $D_n=\pi n[4^{-n}\binom{2n}{n}]^2$, `quarter_bounds` bounds the error at finite $n$ and `quarter_limit` proves $n(1-D_n)\to1/4$ using Wallis’ product. `quartet_barnes_product` gives the finite product using the Gamma recurrence. [QuartetRadius](SuperZeta/QuartetRadius.lean) proves $R_n-2\pi n\to0$ and the quarter limit for $R_nB_n^2/2$. |
 | [Exact Stirling remainder](SuperZeta/StirlingCorrection.lean) | `log_D_factorial` identifies the cancellation of the factorial errors, and `log_C_eq_radial_sub_laplace` gives the exact integral. `factorialRemainder_hasSum` recovers the logarithmic error for one factorial by summing the same integral at successive doublings. `factorial_eq_stirling_mul_exp_dyadic` gives the resulting equality for $n!$ at every positive integer. [The truncation proof](SuperZeta/StirlingExpansion.lean) bounds the combined remainder by the first omitted term at every order and proves the corresponding bound for the sum above a cutoff. |
 | [The deformed zeta near zero](SuperZeta/DeformedZeta.lean) | `continuation_eq_series` restores the subtracted terms in the region of convergence. `residue_zero` gives residue $-\nu/4$ and `spectralZeta_analyticAt_zero` proves regularity of the spectral diagonal, with value $-1/4$. |
-| [Factorial phase](SuperZeta/FactorialPhase.lean) | `phaseFactor_quotient` gives the exact phase of the neighboring power factors. `dottie_factorial_bracket` proves the half-turn comparison from the witness decimals. `dottie_quartet_bracket` proves the full comparison given the [directed radial bounds](../archive/2026-11-18-stirling-correction-v001/phase-bounds.json). |
+| [Factorial phase](SuperZeta/FactorialPhase.lean) | `phaseFactor_quotient` gives the exact phase of the neighboring power factors. `dottie_factorial_bracket` proves the half-turn comparison from the exact decimal coordinates of the two reflected Dottie parameters. `dottie_quartet_bracket` proves the full comparison given the [directed radial bounds](../archive/2026-11-18-stirling-correction-v001/phase-bounds.json). |
 | [The quadratic for π](SuperZeta/Meme.lean) | `coefficient_quartic` and `equal_target_iff` check the quartic and inverse branches. `rootGap_min` proves the exact minimum root separation of one at $N(x)=0$, and `roots_at_zero_numerator` identifies the two roots. [MemePrecision](SuperZeta/MemePrecision.lean) bounds $R(e)-T(\pi)$ between $2.6231439430444\times10^{-20}$ and $2.6231439430445\times10^{-20}$, and $\pi-\widehat\pi$ between $8.682007272724\times10^{-20}$ and $8.682007272726\times10^{-20}$. |
 | [Local points and rational descent](SuperZeta/Hasse.lean) | `quartic_forces_negative_square` sends a hypothetical rational projective point to a nonzero negative-square abscissa on the associated elliptic curve. [HasseCover](SuperZeta/HasseCover.lean) proves that one of four rational inputs gives a point over $\mathbb Q_p$ at each prime $p$. [HasseLocal](SuperZeta/HasseLocal.lean) checks the nine exceptional primes individually. The exclusion of rational points uses the rank and squareclass computation in the [written descent](../archive/2026-11-18-lean-foundations-v001/arithmetic/research/hasse-obstruction.md). |
 

diff --git a/archive/2026-11-19-dottie-plane-atlas-v001/README.md b/archive/2026-11-19-dottie-plane-atlas-v001/README.md
@@ -1,6 +1,6 @@
 # The Dottie clocks and the moving Hurwitz plane
 
-I studied two experiments near the sixth Riemann zero. In the first, I turned the Hurwitz shift and followed the deformation of the surrounding plane. In the second, I held the shift fixed and changed the continuous path by which the Dottie multiplier acts on the value of the function.
+I studied two experiments near the sixth Riemann zero. In the first, I turned the Hurwitz shift and followed the deformation of the surrounding plane. In the second, I fixed the Hurwitz shift at $b=1/4$ and used the multiplier of one 640-stage return on the right flank of the Dottie spire. I compared the path given by its principal logarithm with the path obtained by retaining the exponents of all 640 stages.
 
 | What I hold fixed | What I vary | What the data answer |
 | --- | --- | --- |
@@ -27,7 +27,7 @@ python -B archive/2026-11-19-dottie-plane-atlas-v001/landing/replay.py --geometr
 python -B tools/replay_single_term.py
 ~~~
 
-Both maps use step-size comparisons as numerical acceptance criteria. Their companion scripts provide directed enclosures at the named witnesses. The retrospective study uses the known first ten landings. The next two seeds were selected by consecutive index in a public commit before I computed either path. The cutoff family rule and quadratic error target were fixed in that commit. The ordinal of the Riemann landing came from comparing the final disk with a zero isolator after the prediction. [Retrospective protocol](landing/Dottie-Blind-Landing/protocol.json) · [Forward-test protocol](holdout/protocol.json) · [Scores](holdout/score.json)
+Both maps use step-size comparisons as numerical acceptance criteria. I checked the marked starting points and the branches they follow by interval arithmetic. The retrospective study uses the known first ten landings. The next two seeds were selected by consecutive index in a public commit before I computed either path. The cutoff family rule and quadratic error target were fixed in that commit. The ordinal of the Riemann landing came from comparing the final disk with a zero isolator after the prediction. [Retrospective protocol](landing/Dottie-Blind-Landing/protocol.json) · [Forward-test protocol](holdout/protocol.json) · [Scores](holdout/score.json)
 
 The one-term inverse from the preceding snapshot now also has a stricter regression check. It rereads the output intervals at 768 bits, tests the real and imaginary parts of both marked phases and of the multiplier, and compares the exact rational enclosures of the recovered parameter. A fresh interval must overlap its published interval and have radius no larger than $5/4$ of the published radius. That last factor is the regression tolerance. The generating proofs retain their original working precisions. [Earlier inverse](../2026-11-19-single-term-inverse-v001/README.md) · [Improved comparison](../../tools/replay_single_term.py)
 
